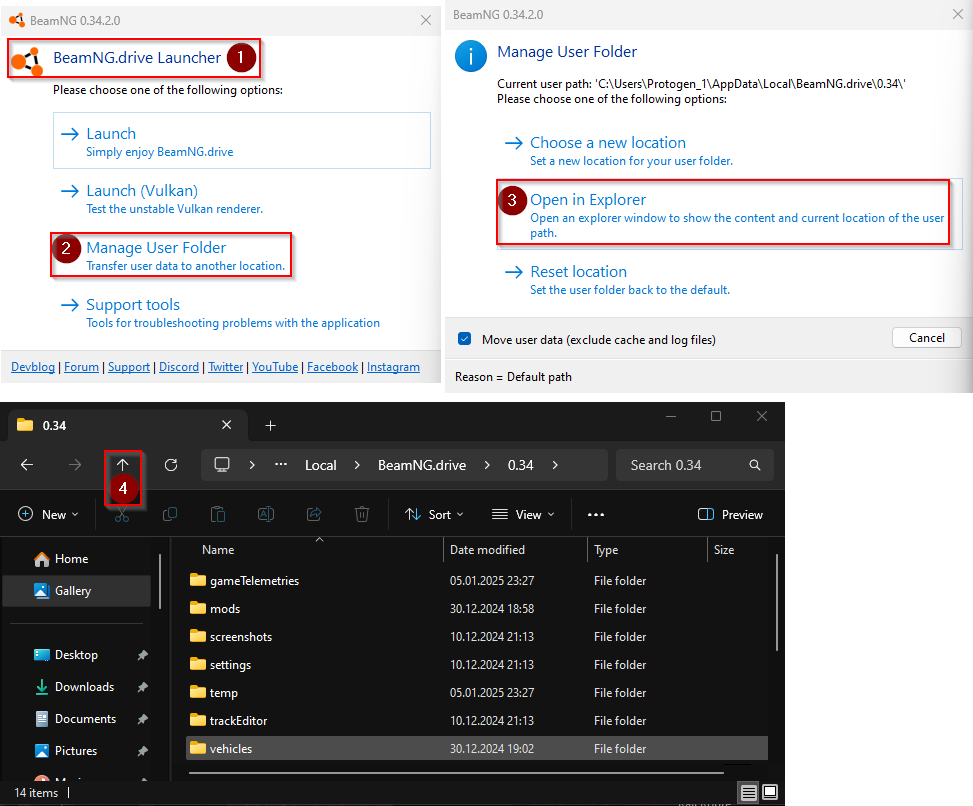
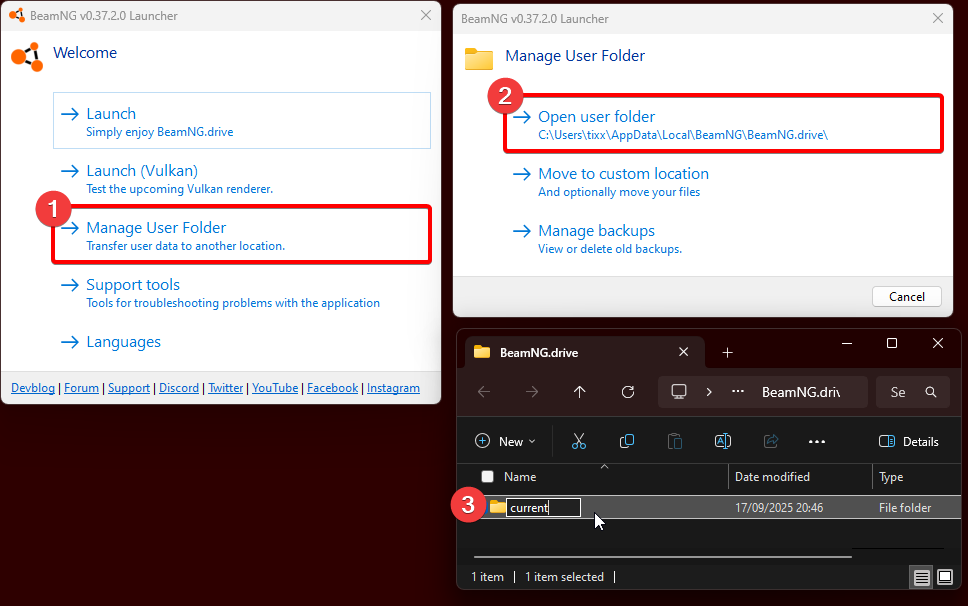
Update rename userfolder section

diff --git a/docs/en/FAQ/How-to-deactivate-mods.md b/docs/en/FAQ/How-to-deactivate-mods.md
@@ -21,7 +21,7 @@ Before joining any server, make sure you have no mods besides 'multiplayerbeammp
 If the game freezes or you still have issues, refer to the next option
 
 ### 2. Creating a new Userfolder
-Open the BeamNG.Drive userfolder and rename the folder of the latest version (e.g. 0.35) to for example 0.xx_OLD (0.35_OLD). Close BeamNG.drive before renaming it.
+Open the BeamNG.Drive userfolder and rename the `current` folder to for example `current_old`. Close BeamNG.drive before renaming it.
 ![image](../../assets/content/new-userfolder.png)
 
 ### 3. Removing mods from the content folders.
@@ -37,5 +37,5 @@ Delete the folder to delete all cached mods. This can be helpful if you need mor
 
 !!! question "My settings and configs are gone! How can I restore them?"
 
-    If you renamed the userfolder, you forced the game to create a new, clean userfolder. You may copy the 'settings' and 'vehicles' folder from the folder you renamed (e.g. 0.34_OLD) to the new folder it created.
+    If you renamed the userfolder, you forced the game to create a new, clean userfolder. You may copy the 'settings' and 'vehicles' folder from the folder you renamed (e.g. `current_old`) to the new folder it created.
     Make sure BeamNG.Drive is closed and replace all elements in the location you want to copy the folders to. You should now have all configs and settings as they were before.
